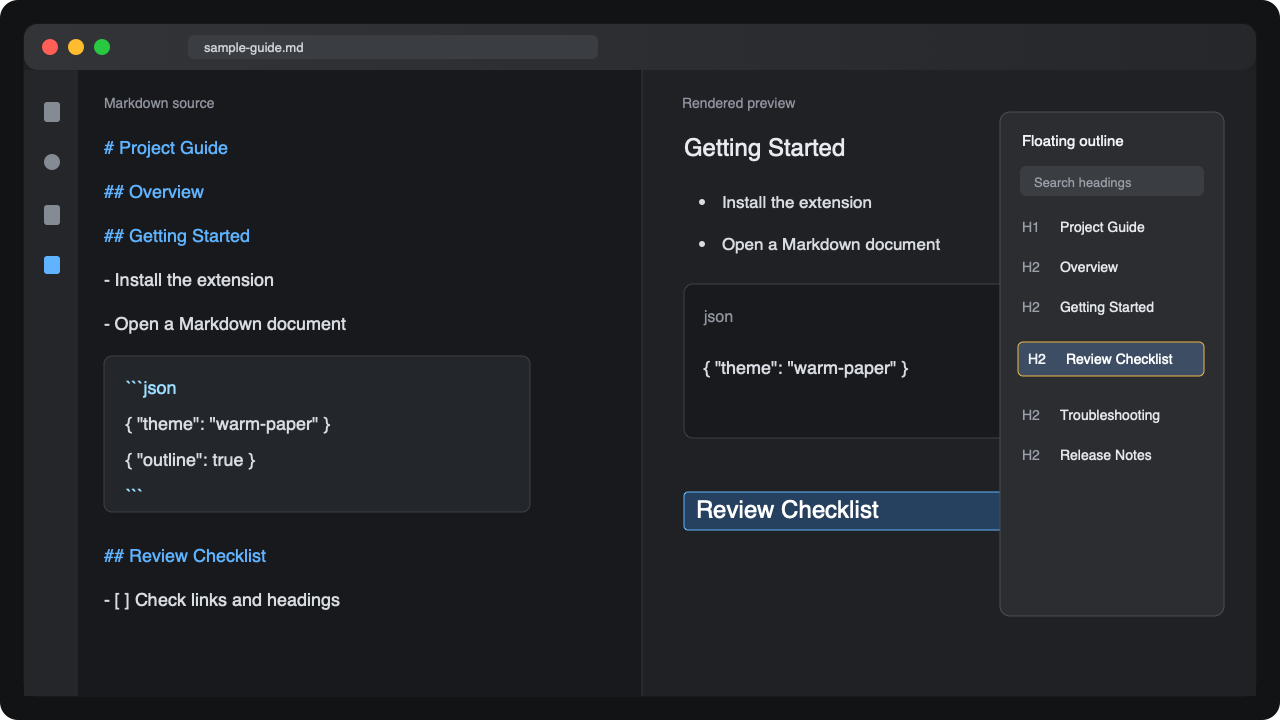
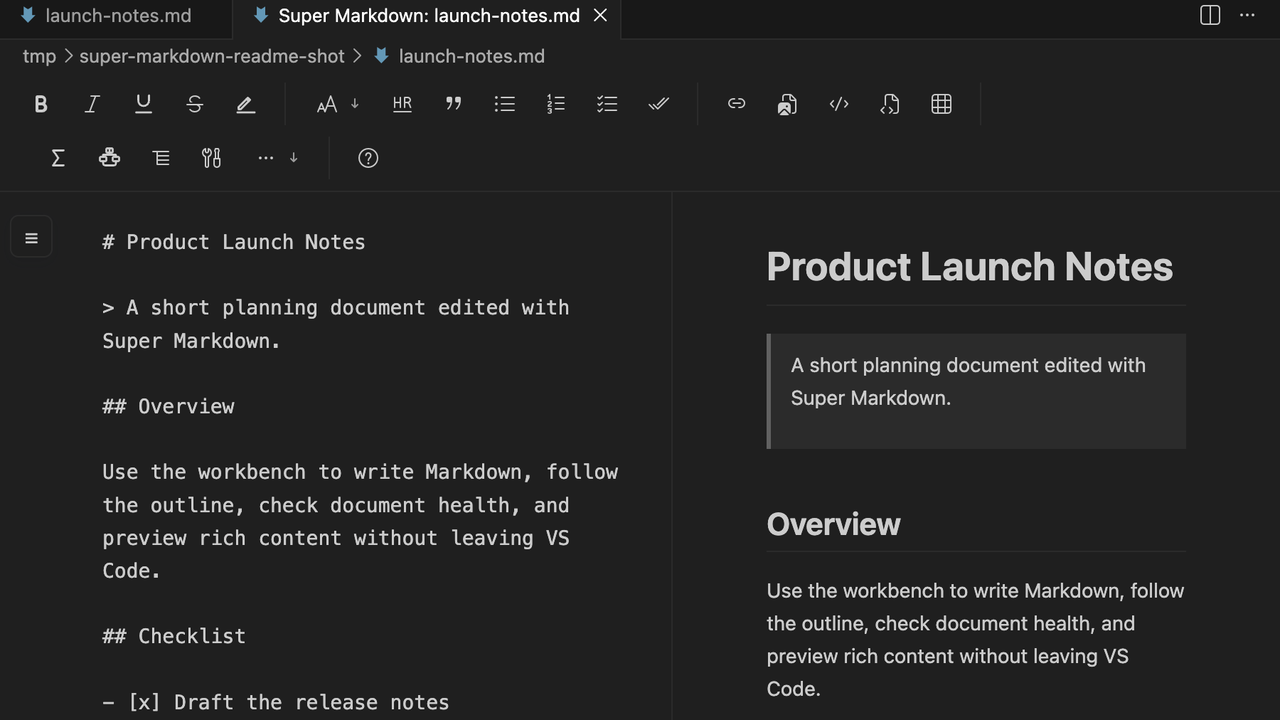
docs: refresh user README screenshots for 0.1.1

diff --git a/CHANGELOG.md b/CHANGELOG.md
@@ -1,5 +1,11 @@
 # Changelog
 
+## 0.1.1
+
+- Refined the README for extension users by removing development-focused notes from the main Marketplace page.
+- Replaced README screenshots with fresh captures from a temporary VS Code Extension Development Host window.
+- Kept the 0.1 editor release documentation focused on installation, editing modes, export, privacy, settings, and current limits.
+
 ## 0.1.0
 
 - Promoted the Super Markdown Editor overhaul from `dev` to `main`.
